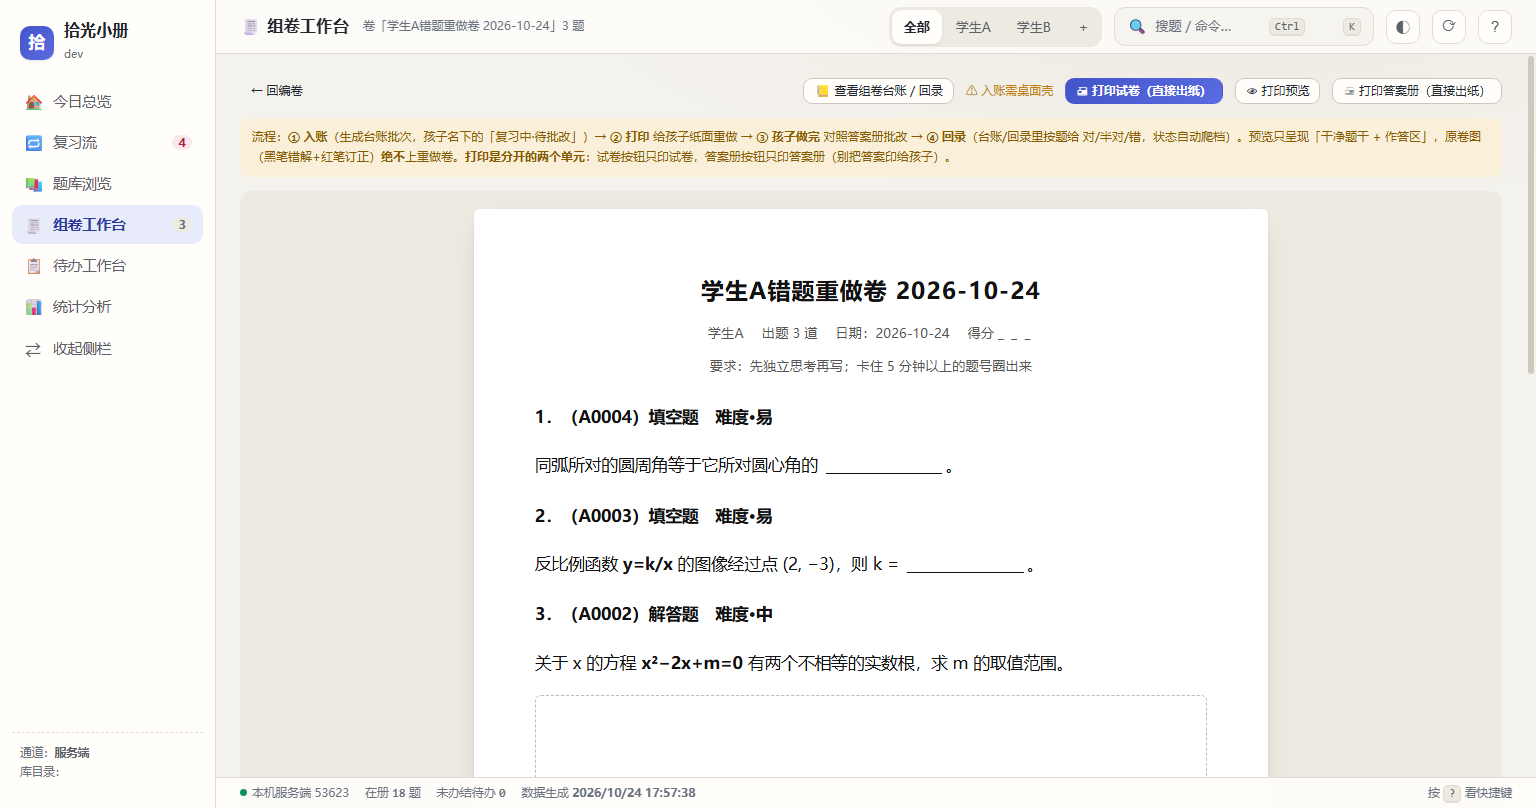
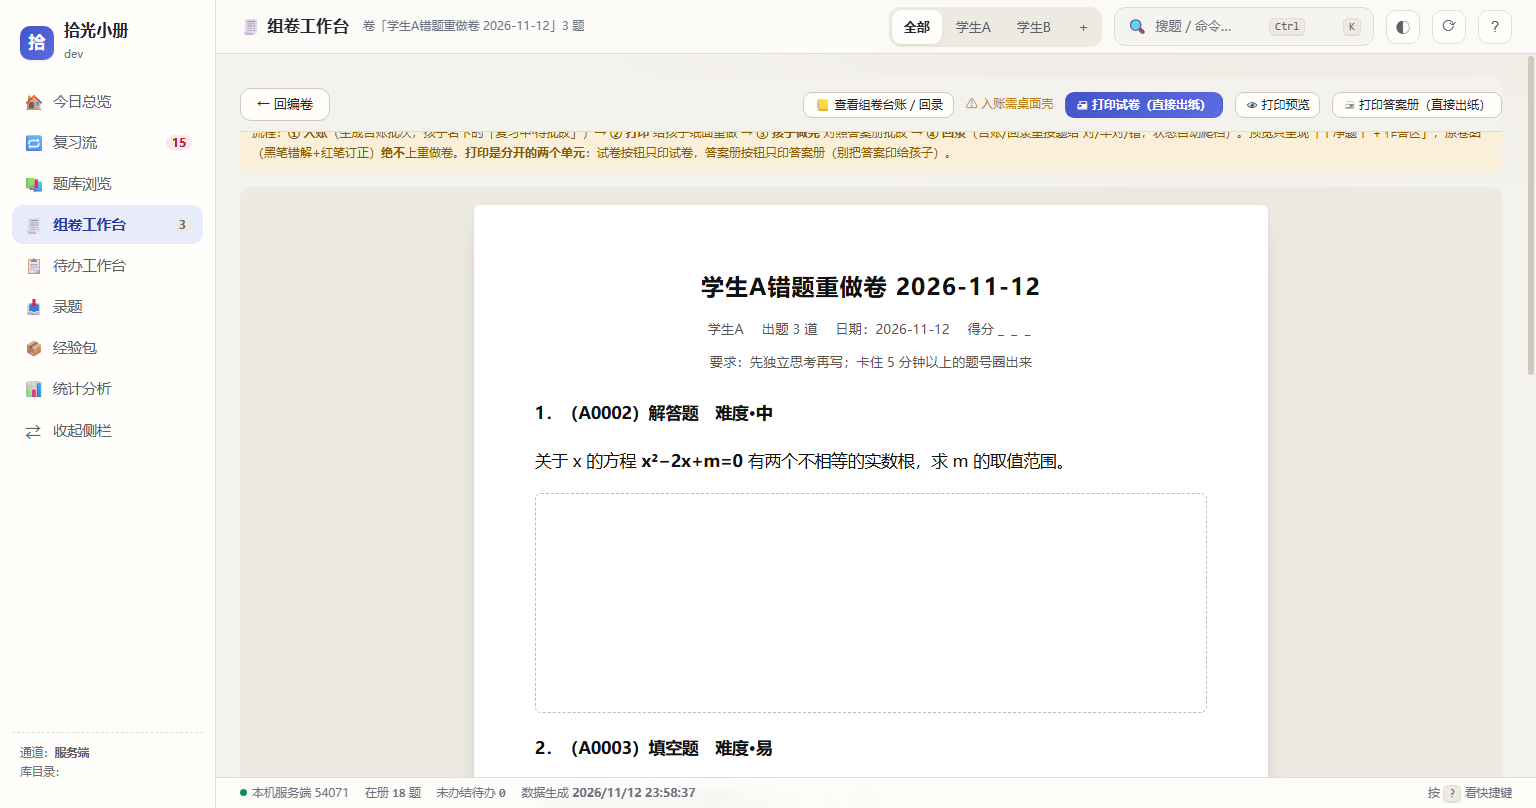
docs(截图 UX-04): 刷新 README 三张首屏图——旧图 mtime 2026-10-24，早于「录题/经验包」上线
- 旧图左侧栏没有「录题」「经验包」、顶栏没有搜索/主题/帮助 ⇒ 用户打开 README 第一眼与手上程序对不上。
- 重跑 make-demo-lib.mjs（合成演示库：学生A/B、18 卡、2 批次）+ make-doc-shots.mjs
  （服务端 + 无头 Edge 渲染）；脚本自检全过：含合成学生名、不含真实化名（词表引 repo-hygiene）、
  三张产物 > 20KB。实测 138KB / 106KB / 138KB，新图已含经验包与顶栏按钮组。
- 只换 docs/images/*.png，不改代码与数据。

diff --git a/CHANGELOG.md b/CHANGELOG.md
@@ -15,6 +15,28 @@
 
 版本号遵循日期制 `YYYY.MM.DD.NN`。版本号唯一真源：`VERSION.json`。
 
+## [2026.11.12.15] - 2026-11-12 · 刷新 README 三张首屏截图（旧图早于「录题 / 经验包」上线，用户第一眼对不上）
+
+**变更分类**：Changed
+**升级影响**：只换 `docs\images\` 三张 PNG（README 首屏图），**不改任何代码与数据**；
+截图仍由 `scripts\make-doc-shots.mjs` 用**纯合成演示库**渲染，不是手绘、不含真实题库内容。
+
+### 为什么（审计 UX-04，P1）
+
+三张图 mtime 是 **2026-10-24**，而「录题」「经验包」「统计薄弱考点」等都是之后上线的 ⇒
+用户打开 README 第一眼看到的界面**与手上程序对不上**（左侧栏少了两个栏目，
+顶栏也没有搜索/主题/帮助那组按钮）。
+
+### 做法
+
+1. `node scripts\make-demo-lib.mjs --out %TEMP%\gn-demo-lib` 造合成演示库
+   （学生A/B、18 张卡、2 批次）；
+2. `node scripts\make-doc-shots.mjs --lib <演示库>` 用**服务端 + 无头 Edge**渲染并覆盖三张图。
+
+脚本自带的判据都过了：页面文本**含合成学生名**（学生A/学生B）、**不含任何真实化名**
+（词表从 `repo-hygiene` 引，唯一真源）、三张产物均 > 20 KB（防空页面截图）。
+实测产物：138 KB / 106 KB / 138 KB，新图左侧栏已含**经验包**、顶栏含搜索与主题切换。
+
 ## [2026.11.12.14] - 2026-11-12 · 孩子模式：做题屏一套界面两种视图（只留题面/答案/对错）
 
 **变更分类**：Added
